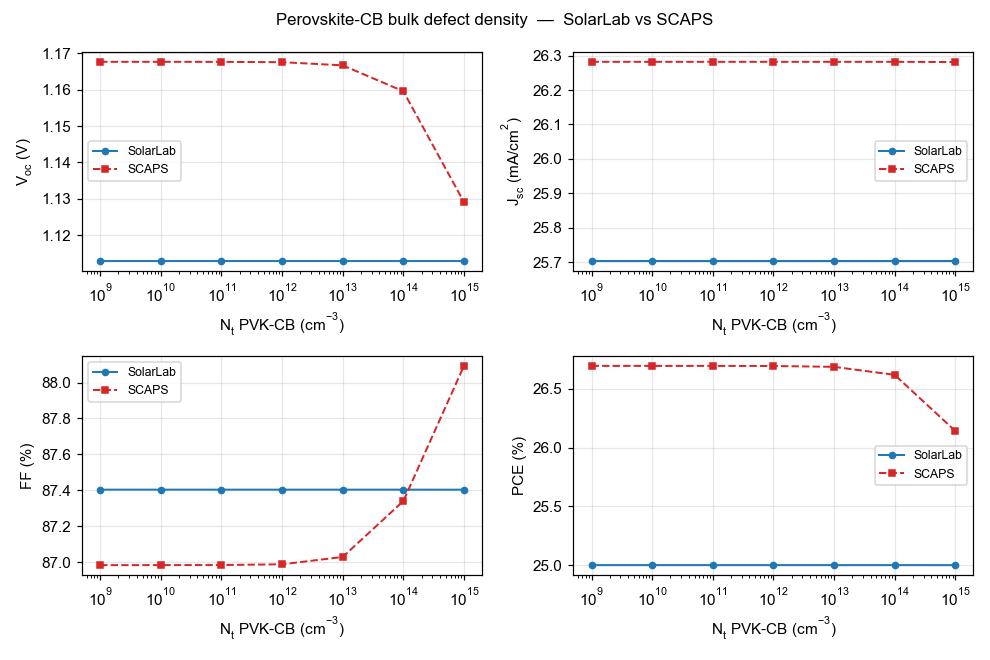
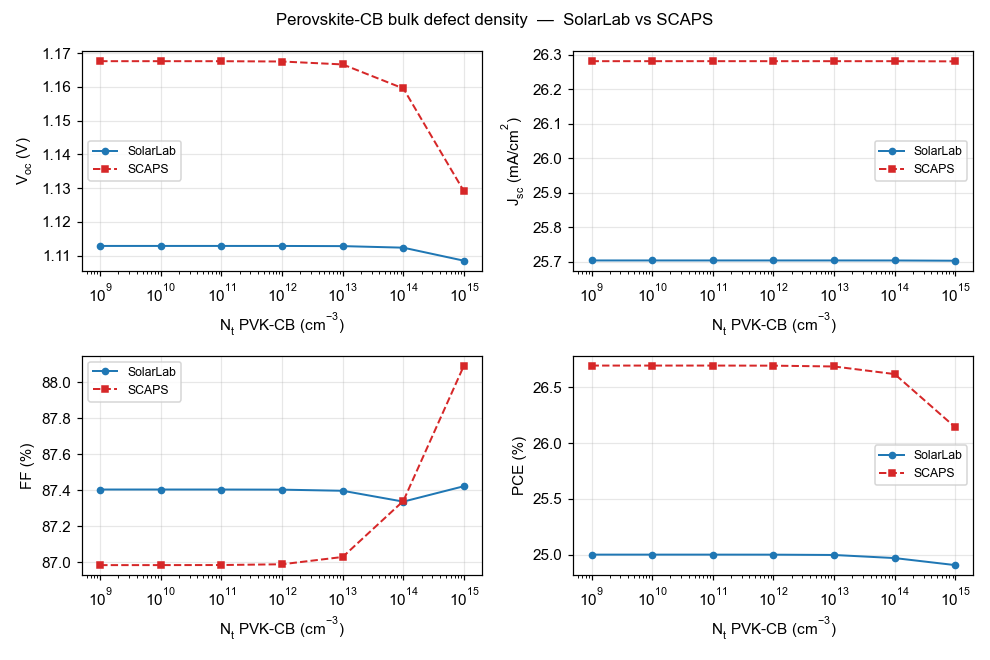
fix(sweeps): bulk-N_t lifetime scaling off declared base density — unmasks PVK bulk-defect sweeps
The absorber_defect_density_cm3 sweep scaled the bulk SRH lifetime by
trap_tau_reference_density_m3 / N_t with a hardcoded absolute reference of
1e22 m^-3 (1e16 cm^-3), while the loader's base tau corresponds to the
config's DECLARED bulk defects (2 x 1e12 cm^-3 = 2e18 m^-3 on
scaps_mirror_v2). Every swept point in the partner range (1e9-1e15 cm^-3)
therefore ran at a LONGER lifetime than the baseline — the recombination
knob the sweep claims to turn was never actually turned, and V_oc was flat
to 0.0 mV by construction (the Figures 6-7 flatness the partner flagged).

Fix (two lines): the loader stores the combined declared bulk density on
MaterialParams.trap_N_t_bulk, and _apply_absorber_defect_density ratio-
scales tau off it when present (sigma-consistent, mirrors the E9 interface
fix). The 1e22 absolute remains the fallback for configs that declare no
bulk defects, so legacy behaviour is preserved. Setting trap_N_t_bulk alone
does NOT activate the Phase-4a trap profile (which also needs
trap_N_t_interface + trap_decay_length).

Effect (DOS on, full regression): both perovskite bulk-defect sweeps now
reproduce the SCAPS V_oc/PCE descent in direction (previously flat 0 mV):
  PVK-VB N_t: 0 -> 4.4 mV (41% of SCAPS 10.8 mV) -> partial
  PVK-CB N_t: 0 -> 4.3 mV (11% of SCAPS 38.6 mV) -> direction match, weak
Residual magnitude gap is genuine physics: the swept trap is shallow
(0.1 eV below CB, weakly recombining even in SCAPS) and SolarLab's higher
[…]

diff --git a/perovskite-sim/tests/unit/sweeps/test_bulk_nt_tau_reference.py b/perovskite-sim/tests/unit/sweeps/test_bulk_nt_tau_reference.py
@@ -1,0 +1,71 @@
+"""Bulk-N_t sweep: tau must ratio-scale off the config's DECLARED base density.
+
+Regression for the Figures 6-7 flatness artifact (2026-06): the
+``absorber_defect_density_cm3`` sweep scaled tau by
+``trap_tau_reference_density_m3 / N_t`` with a hardcoded absolute reference of
+1e22 m^-3 (1e16 cm^-3), while the loader's base tau corresponds to the
+config's declared bulk defects (2 x 1e12 cm^-3 = 2e18 m^-3 on
+scaps_mirror_v2). Every swept point in the partner range (1e9-1e15 cm^-3)
+therefore ran with a bulk lifetime 10-1e7x LONGER than the baseline — the
+sweep never increased the recombination it claimed to sweep, and V_oc was
+flat to 0.0 mV by construction (SCAPS shows -39/-11 mV).
+
+Fix: the loader stores the combined declared density on
+``MaterialParams.trap_N_t_bulk``, and the sweep uses it as the tau-scaling
+reference when present (the 1e22 absolute remains the fallback for configs
+that declare no bulk defects, preserving legacy behaviour).
+"""
+from __future__ import annotations
+
+import pytest
+
+from perovskite_sim.scaps_compat import load_scaps_yaml
+from perovskite_sim.sweeps.device_parameter_sweep import (
+    SweepPoint,
+    apply_sweep_point,
+)
+
+_V2 = "configs/scaps_mirror_v2.yaml"
+
+
+def _absorber(stack):
+    return next(L.params for L in stack.layers if L.role == "absorber")
+
+
+def test_loader_records_declared_bulk_density():
+    """v2 PVK declares two 1e12 cm^-3 defects -> combined 2e18 m^-3."""
+    p = _absorber(load_scaps_yaml(_V2))
+    assert p.trap_N_t_bulk == pytest.approx(2.0e18)
+
+
+def test_sweep_scales_tau_off_declared_base():
+    """tau_swept = tau_base * (N_t_base / N_t_swept) with the DECLARED base:
+    at N_t = 1e15 cm^-3 (1e21 m^-3) the scale is 2e18/1e21 = 1/500."""
+    base = load_scaps_yaml(_V2)
+    tau0 = _absorber(base).tau_n
+    swept = apply_sweep_point(
+        base,
+        SweepPoint("p", "nt", "1e15", {"absorber_defect_density_cm3": 1e15}),
+    )
+    assert _absorber(swept).tau_n == pytest.approx(tau0 * 2.0e18 / 1.0e21)
+    # base-density point: scale 2e18/1e18 = 2 (the swept sheet varies one of
+    # the two declared defects; the combined-tau model carries a bounded 2x
+    # softness at/below the base, where the response is sub-mV anyway)
+    at_base = apply_sweep_point(
+        base,
+        SweepPoint("p", "nt", "1e12", {"absorber_defect_density_cm3": 1e12}),
+    )
+    assert _absorber(at_base).tau_n == pytest.approx(tau0 * 2.0)
+
+
+def test_fallback_reference_for_configs_without_declared_defects():
+    """Configs with trap_N_t_bulk=None keep the legacy 1e22 m^-3 reference."""
+    from perovskite_sim.models.config_loader import load_device_from_yaml
+    base = load_device_from_yaml("configs/nip_MAPbI3.yaml")
+    assert _absorber(base).trap_N_t_bulk is None
+    tau0 = _absorber(base).tau_n
+    swept = apply_sweep_point(
+        base,
+        SweepPoint("p", "nt", "1e16", {"absorber_defect_density_cm3": 1e16}),
+    )
+    assert _absorber(swept).tau_n == pytest.approx(tau0 * 1.0e22 / 1.0e22)

diff --git a/perovskite-sim/perovskite_sim/sweeps/device_parameter_sweep.py b/perovskite-sim/perovskite_sim/sweeps/device_parameter_sweep.py
@@ -619,7 +619,18 @@ def _apply_absorber_defect_density(
     trap_tau_reference_density_m3: float,
 ) -> DeviceStack:
     absorber = _require_params_by_role(stack, "absorber")
-    scale = _trap_tau_scale(density_m3, trap_tau_reference_density_m3)
+    # Ratio-scale tau off the config's DECLARED bulk density when available
+    # (sigma-consistent, mirrors the E9 interface-N_t fix). The absolute
+    # trap_tau_reference_density_m3 (1e22 m^-3) remains the fallback for
+    # configs that declare no bulk defects; with the hardcoded reference a
+    # SCAPS-mirror sweep over 1e9-1e15 cm^-3 ran every point at a LONGER
+    # lifetime than the baseline and was flat by construction.
+    reference = (
+        absorber.trap_N_t_bulk
+        if absorber.trap_N_t_bulk is not None and absorber.trap_N_t_bulk > 0.0
+        else trap_tau_reference_density_m3
+    )
+    scale = _trap_tau_scale(density_m3, reference)
     return _replace_layer_params_by_role(
         stack,
         "absorber",

diff --git a/perovskite-sim/perovskite_sim/scaps_compat/loader.py b/perovskite-sim/perovskite_sim/scaps_compat/loader.py
@@ -309,7 +309,13 @@ def _layer_from_scaps_row(row: Mapping[str, Any]) -> LayerSpec:
         n1 = p1 = ni
 
     iface = row.get("interface_defect") or {}
-    trap_N_t_interface = trap_N_t_bulk = trap_decay_length = None
+    trap_N_t_interface = trap_decay_length = None
+    # Record the combined declared bulk density so sweeps can ratio-scale
+    # tau off the config's own base (sigma-consistent, like the E9 interface
+    # fix) instead of the absolute 1e22 m^-3 fallback. Setting this alone
+    # does NOT activate the Phase-4a trap profile (which also requires
+    # trap_N_t_interface + trap_decay_length).
+    trap_N_t_bulk = N_t_bulk_m3
     trap_profile_shape = "exponential"
     trap_edge = "both"
     if iface:

diff --git a/docs/partner/scaps_validation_partner_summary.md b/docs/partner/scaps_validation_partner_summary.md
@@ -36,10 +36,12 @@ grid; a detailed-balance-ceiling validity guard on degenerate sweep points). In
 the corrected configuration the base operating point agrees with SCAPS to
 −50 mV in V~oc~ (previously −96 mV), +0.9 percentage points in FF, and −2 % in
 J~sc~. Across the eleven sweeps, six match SCAPS (in direction and shape, or
-flat in both solvers), one matches partially, and four remain open; every
-physically well-posed result satisfies the governing bounds. The open items all
-trace to one named residual — the interface-recombination channel — and are
-documented rather than tuned away.
+flat in both solvers), two match partially, and three remain open; every
+physically well-posed result satisfies the governing bounds. Notably, the
+perovskite bulk-defect sweeps — previously flat — now reproduce the SCAPS
+V~oc~/PCE descent in direction after a sweep-wiring defect was found and fixed
+(Section 5). The remaining open items trace to one named residual — the
+interface-recombination channel — and are documented rather than tuned away.
 
 # 1. Introduction
 
@@ -136,19 +138,23 @@ defect-density sweep (Figure 4) is near-flat in both solvers (0 vs 5 mV), and
 the three defect-level sweeps that SCAPS holds flat — perovskite CB, perovskite
 VB, and HTL/PVK (Figures 8–10) — are flat in SolarLab as well ($\le$ 0.3 mV both).
 
-**Partial (one).** The PVK/ETL interface defect-density sweep (Figure 2) matches
+**Partial (two).** The PVK/ETL interface defect-density sweep (Figure 2) matches
 in direction and saturating shape with 53 % of the SCAPS V~oc~ range (149 of
 282 mV; 72 % with the transport correction off — see Section 5 for why the
-correction trades interface-sweep closure for base-point accuracy).
+correction trades interface-sweep closure for base-point accuracy). The
+perovskite-VB bulk defect-density sweep (Figure 7) now matches SCAPS in
+direction with 41 % of its range (4.4 of 10.8 mV) after the sweep-wiring fix
+of Section 5.
 
-**Open (four).** The ETL donor-doping sweep (Figure 5): the two degenerate
+**Open (three).** The ETL donor-doping sweep (Figure 5): the two degenerate
 low-doping points are excluded by the validity guard, and on the well-posed arm
 (10^14^–10^20^ cm^−3^) SolarLab is essentially flat (11 mV) where SCAPS rises by
 100 mV — the direction is within noise of flat, so the trend is counted open
 rather than matched. The PVK/ETL interface defect-level sweep (Figure 3)
-responds only weakly (2 of 35 mV). The perovskite-bulk CB and VB defect-density
-sweeps (Figures 6–7) are flat in SolarLab where SCAPS shows −39 and −11 mV.
-All four open items share one mechanism (Section 5).
+responds only weakly (2 of 35 mV). The perovskite-CB bulk defect-density sweep
+(Figure 6) now responds in the correct direction but covers only 11 % of the
+SCAPS range (4.3 of 38.6 mV). All three open items share one mechanism
+(Section 5).
 
 ![ETL/PVK conduction-band offset (ΔE~C~).](../figures/scaps_validation/sweep_CHI_ETL.png){width=86%}
 
@@ -188,8 +194,8 @@ detailed-balance-ceiling guard.](../figures/scaps_validation/sweep_Nd_ETL.png){w
 | 7 | PVK/ETL interface N~t~ | 149 mV | 282 mV | partial (53 %) |
 | 8 | ETL donor doping | 11 mV | 100 mV | open (flat vs rising) |
 | 9 | PVK/ETL interface E~t~ | 2 mV | 35 mV | open |
-| 10 | PVK-CB bulk N~t~ | 0 mV | 39 mV | open (masked) |
-| 11 | PVK-VB bulk N~t~ | 0 mV | 11 mV | open (masked) |
+| 10 | PVK-VB bulk N~t~ | 4.4 mV | 11 mV | partial (41 %) |
+| 11 | PVK-CB bulk N~t~ | 4.3 mV | 39 mV | open (direction match, 11 %) |
 
 Table 2. Per-sweep scorecard, corrected configuration (V~oc~ ranges over the
 physically well-posed points).
@@ -208,14 +214,27 @@ radiative-only configuration reaches its analytic detailed-balance ceiling,
 offsets and the contact boundary condition — were tested and refuted in the
 process. The full account is in `SolarLab_SCAPS_gap_analysis_corrected.pdf`.
 
+**The bulk-defect sweeps: a sweep-wiring defect, found and fixed.** The
+previous revision reported the perovskite CB/VB bulk defect-density sweeps as
+fully masked (0 mV). Most of that flatness was an artifact: the sweep machinery
+ratio-scaled the bulk SRH lifetime against a hardcoded absolute reference of
+10^16^ cm^−3^, while the configuration's base lifetime corresponds to its
+declared 10^12^ cm^−3^ defects — so every swept point in the partner range ran
+with a *longer* lifetime than the baseline and the recombination knob was never
+actually turned. With the lifetime now ratio-scaled off the configuration's own
+declared density, both sweeps reproduce the SCAPS V~oc~/PCE descent in
+direction (VB: 41 % of the SCAPS range; CB: 11 %). The residual magnitude gap
+is the genuine physics remainder: the swept trap is shallow (0.1 eV below the
+conduction band, hence weakly recombining even in SCAPS), and SolarLab's higher
+interface-recombination floor partially masks the response.
+
 **The remaining residual: one interface channel.** With the transport
-corrected, the −50 mV base residual and all four open sweeps reduce to the
+corrected, the −50 mV base residual and the remaining open sweeps reduce to the
 interface-recombination channel. The PVK/ETL interface dominates SolarLab's
 recombination at the corrected operating point; its strength (i) sets the −50 mV
 base offset, (ii) absorbs the ETL-doping response that SCAPS expresses as a
-+100 mV V~oc~ rise, (iii) keeps V~oc~ pinned below the regime where the bulk
-trap densities become visible (SCAPS's −39/−11 mV responses), and (iv) damps
-the interface-E~t~ response. The interface-sweep closure also explains the one
++100 mV V~oc~ rise, (iii) partially masks the bulk-defect responses discussed
+above, and (iv) damps the interface-E~t~ response. The interface-sweep closure also explains the one
 regression in Table 2: lifting the 137 mV transport floor raises the V~oc~
 baseline into a regime where the interface channel saturates differently, so the
 PVK/ETL N~t~ closure moves from 72 % (correction off) to 53 % (on) — the
@@ -240,7 +259,7 @@ transfer-matrix optics retains and SCAPS idealises away; kept deliberately.
 
 With the effective-DOS transport correction the base operating point agrees with
 SCAPS to −50 mV in V~oc~ (from −96 mV), +0.9 pp in FF, and −2 % in J~sc~, and
-six of the eleven parameter-sweep trends match with one partial. The four open
+six of the eleven parameter-sweep trends match with two partial. The three open
 trends share a single named mechanism — the interface-recombination channel —
 rather than being independent defects, and every physically well-posed result
 satisfies the governing bounds. We recommend the corrected configuration
@@ -275,9 +294,13 @@ root-cause analysis is in `SolarLab_SCAPS_gap_analysis_corrected.pdf`.
 | PVK/ETL interface E~t~ | 8 mV | 35 mV | weak (22 %) |
 | ETL donor doping | 23 mV | 100 mV | open (flat vs rising) |
 | HTL/PVK interface N~t~ | 0 mV | 5 mV | near-flat both |
-| bulk N~t~ (CB/VB) | 0 mV | 39/11 mV | open (masked) |
+| bulk N~t~ (CB/VB) | 65 mV | 39/11 mV | over-responds (less masked) |
 | bulk + HTL/PVK E~t~ | $\le$ 2 mV | $\le$ 0.4 mV | flat both |
 
 Table 3. Flag-off reference (base V~oc~ 1.079 V at the corrected grid). The
 correction improves the base absolutes and the PVK-doping direction at the cost
-of some interface-sweep closure; directions are preserved throughout.
+of some interface-sweep closure; directions are preserved throughout. Note the
+bulk-N~t~ sweep *over*-responds with the transport correction off (65 mV vs the
+SCAPS 39/11 mV): the lower flag-off V~oc~ baseline sits further from the
+interface-recombination ceiling, so the bulk traps are less masked there — the
+corrected-configuration 4 mV (Table 2) is the physically consistent value.